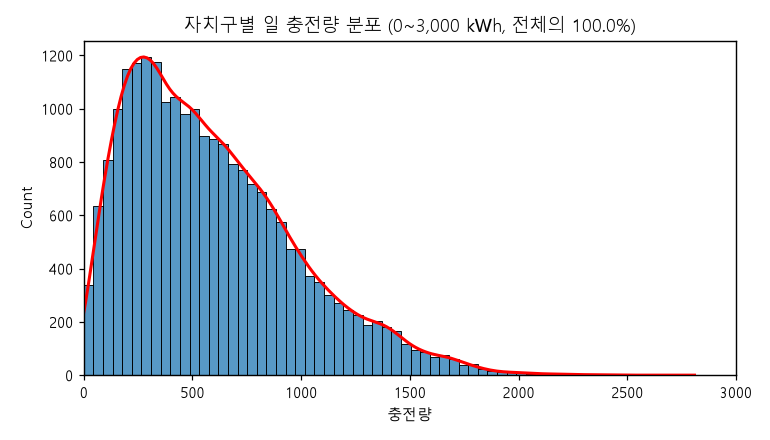
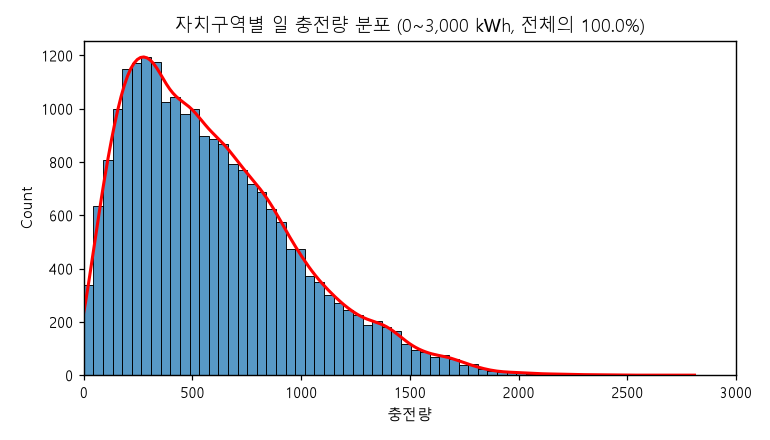
refactor: 구 → 자치구역 명칭 통일 및 히트맵 부제목 제거
- eda.py: 그래프 제목 '자치구역별' 통일, 히트맵 예측불가 문구 제거
- model.py: 출력 메시지·그래프 제목 '자치구역 모델'로 변경
- 그래프 재생성(01_target_dist, 04_top_gu, 06_corr, 07_pred_gu)

Changed region(s): [[0.2182, 0.0295, 0.8416, 0.0886]]

diff --git a/src/ml/model.py b/src/ml/model.py
@@ -81,7 +81,7 @@ def run(df, cats, nums, keys, tag, title, cv_sample=5000, log_target=False):
     plt.xlim(0, lim); plt.ylim(0, lim)
     plt.xlabel("실제 충전량(kWh)")
     plt.ylabel("예측 충전량(kWh)")
-    plt.title(f"AI 예측값 vs 실제 충전량 (R²={best_r2:.2f})")
+    plt.title(f"자치구역 AI 예측값 vs 실제 충전량 (R²={best_r2:.2f})")
     plt.tight_layout()
     plt.savefig(FIG / f"07_pred_{tag}.png", dpi=110)
     plt.close()
@@ -119,14 +119,14 @@ gu["month_seq"] = (gu["year"] - 2025) * 12 + gu["month"]
 
 print(f"월별 집계: {len(gu):,}행 (일별 {len(gu_day):,}행 → 집계)")
 
-print("\n=== 구 단위 모델 (월별 집계 + log 타깃) ===")
+print("\n=== 자치구역 단위 모델 (월별 집계 + log 타깃) ===")
 gu_best, gu_r2, gu_rmse, gu_mae, gu_br2 = run(
     gu, ["gu", "충전구분"],
     ["month_seq", "year", "month", "avg_hour"],
-    ["gu", "충전구분", "month"], "gu", "구 모델",
+    ["gu", "충전구분", "month"], "gu", "자치구역 모델",
     log_target=True
 )
 
 print("\n=== 최종 결과 요약 ===")
-print(f"구 모델  최적={gu_best:<22} R²={gu_r2:.3f}  RMSE={gu_rmse:.0f}  MAE={gu_mae:.0f}")
+print(f"자치구역 모델  최적={gu_best:<22} R²={gu_r2:.3f}  RMSE={gu_rmse:.0f}  MAE={gu_mae:.0f}")
 print("saved:", [p.name for p in MODELS.glob("*.pkl")])

diff --git a/src/ml/eda.py b/src/ml/eda.py
@@ -18,7 +18,7 @@ ax2 = ax1.twinx()
 sns.kdeplot(clipped["충전량"], ax=ax2, color="red", linewidth=2)
 ax2.set_yticks([]); ax2.set_ylabel("")
 plt.xlabel("충전량(kWh)"); plt.xlim(0, 3000)
-plt.title(f"자치구별 일 충전량 분포 (0~3,000 kWh, 전체의 {pct:.1f}%)")
+plt.title(f"자치구역별 일 충전량 분포 (0~3,000 kWh, 전체의 {pct:.1f}%)")
 plt.tight_layout(); plt.savefig(FIG/"01_target_dist.png", dpi=110); plt.close()
 wd = gu.groupby("weekday")["충전량"].mean()
 plt.figure(figsize=(6,4))
@@ -29,13 +29,13 @@ save("02_weekday.png","요일별 평균 충전량")
 mo = gu.groupby("month")["충전량"].mean()
 plt.figure(figsize=(7,4)); mo.plot(kind="bar"); save("03_month.png","월별 평균 충전량")
 topgu = gu.groupby("gu")["충전량"].sum().sort_values(ascending=False).head(10)
-plt.figure(figsize=(8,4)); topgu.plot(kind="bar"); save("04_top_gu.png","구별 총 충전량 TOP10 (수요 핫스팟)")
+plt.figure(figsize=(8,4)); topgu.plot(kind="bar"); save("04_top_gu.png","자치구역별 총 충전량 TOP10 (수요 핫스팟)")
 ct = gu.groupby("충전구분")["충전량"].mean()
 plt.figure(figsize=(5,4)); ct.plot(kind="bar"); save("05_charger.png","충전구분별 평균 충전량")
 num = gu[["충전량","sessions","year","month","weekday","is_holiday","is_weekend","avg_hour"]]
 num.columns = ["충전량(kWh)","세션수","연도","월","요일","공휴일","주말","평균시작시각"]
 plt.figure(figsize=(8,6)); sns.heatmap(num.corr(), annot=True, cmap="Blues", fmt=".2f")
-save("06_corr.png","항목 간 관련도 (상관관계)\n예측 불가 항목은 충전량과 관련도가 높아도 학습에서 제외")
+save("06_corr.png","항목 간 관련도 (상관관계)")
 
 print("figures:", len(list(FIG.glob("*.png"))))
 print("\n[충전량 describe]\n", gu["충전량"].describe().round(1).to_string())